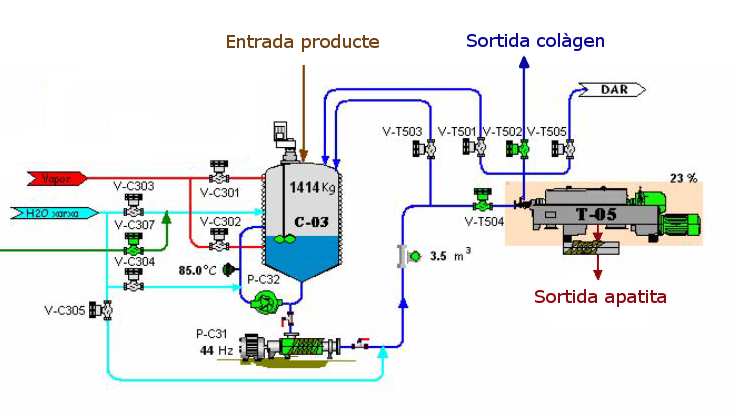
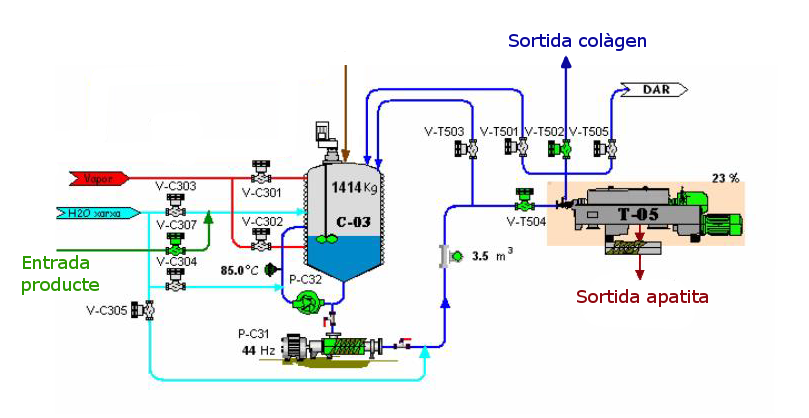
Fixed description

diff --git a/LaTex/document.tex b/LaTex/document.tex
@@ -9,6 +9,9 @@
 \usepackage{float}
 \usepackage{array}
 \usepackage[table, dvipsnames]{xcolor}
+\usepackage{amsmath}
+\usepackage{amsfonts}
+\usepackage{amssymb}
 
 \hypersetup{
 	colorlinks = true,
@@ -50,9 +53,9 @@ En aquest treball s'han usat les tècniques de disseny d'experiments per poder v
 \subsection{Tema escollit}
 L'activitat principal de \emph{Proteïn S.A.} és fabricar  \emph{\href{https://es.wikipedia.org/wiki/Col\%C3\%A1geno_hidrolizado}{co\l.lagen hidrolitzat}} a partir de l'ós de porc que és usat a la indústria de l'alimentació per afegir els nutrients necessaris a la carn. 
 
-A part, un subproducte que es genera és el \emph{\href{https://es.wikipedia.org/wiki/Fosfato_tric\%C3\%A1lcico}{Fosfat Tricàlcic}} ($Ca_3 (PO_4)_2$) o també conegut com \emph{apatita} i un dels usos més comuns és per les gallines que ponen ous perquè no es quedin sense calci.
+A part, un subproducte que es genera és el \emph{\href{https://es.wikipedia.org/wiki/Fosfato_tric\%C3\%A1lcico}{Fosfat Tricàlcic}} ($Ca_3 (PO_4)_2$) o també conegut com \emph{apatita} i un dels usos més comuns és per les gallines que ponen ous perquè no es quedin sense calci. 
 
-El problema principal de l'apatita és que els compradors la volen amb un \% en massa igual o superior al 15\%. Si aquesta condició no es pot garantir els clients reclamaran indemnitzacions o aniran a comprar a la competència. Així doncs, aquest serà l'objecte principal de l'estudi ja que l'empresa vol assegurar-se que la qualitat de la seva apatita és bona. 
+El problema principal de l'apatita és que els compradors la volen amb un \% de fòsfor en massa igual o superior al 15\%. Si aquesta condició no es pot garantir els clients reclamaran indemnitzacions o aniran a comprar a la competència. Així doncs, aquest serà l'objecte principal de l'estudi ja que l'empresa vol assegurar-se que la qualitat de la seva apatita és bona. 
 
 A part també hi ha co\l.lagen que s'escapa per la línia de l'apatita a l'hora de separar els dos productes pel que també pot ser d'interès minimitzar la quantitat que es perd perquè no s'ha pogut separar prou bé.
 
@@ -60,14 +63,14 @@ A part també hi ha co\l.lagen que s'escapa per la línia de l'apatita a l'hora 
 Donat que els clients poden reclamar si la qualitat d'apatita no és suficient i que hi ha part de co\l.lagen que es perd per la línia de l'apatita ens interessa complir els següents objectius:
 
 \begin{itemize}
-	\item Maximitzar el \% en massa d'apatita
+	\item Maximitzar el \% en massa de fosfor a l'apatita
 	\item Minimitzar el \% en massa de co\l.lagen a la línia de l'apatita
 \end{itemize}
 
 \section{Disseny}
 
 \subsection{Sistema a estudiar}
-Per poder saber quins factors s'han de controlar cal entendre primer com funciona la part del procés amb el que s'obté l'apatita, veure \autoref{fig:esquema}. Inicialment el producte arriba del procés anterior i conté co\l.lagen i apatita en suspensió en aigua (línia blava al P\&D). Així doncs, s'ha de separar l'apatita de l'aigua, el problema és que precipita molt fàcilment i s'ha de forçar que es mantingui en suspensió. Per tant, hi ha una sèrie d'elements que asseguren que això sigui així; al dipòsit on va a parar (C-03) hi ha un parell de barrejadors i una bomba de recirculació (P-C32). 
+Per poder saber quins factors s'han de controlar cal entendre primer com funciona la part del procés amb el que s'obté l'apatita, veure \autoref{fig:esquema}. Inicialment el producte arriba del procés anterior i conté co\l.lagen i apatita en suspensió en aigua (línia verda al P\&D). Així doncs, s'ha de separar l'apatita de l'aigua, el problema és que precipita molt fàcilment i s'ha de forçar que es mantingui en suspensió. Per tant, hi ha una sèrie d'elements que asseguren que això sigui així; al dipòsit on va a parar (C-03) hi ha un parell de barrejadors i una bomba de recirculació (P-C32). 
 
 \begin{figure}[H]
 	\centering
@@ -101,12 +104,20 @@ Per obtenir una mostra simplement s'agafa de la sortida del tricànter una mica 
 El procés de mesura és una mica més complicat i consta d'una sèrie d'etapes:
 
 \begin{enumerate}
-	\item Es pesa la mostra que conté, entre d'altres, aigua, co\l.lagen i fosfat.
+	\item Es pesa la mostra que conté, entre d'altres, aigua, greix, co\l.lagen i fosfat.
 	\item Es posa en un forn a 100ºC per tal d'evaporar tota l'aigua 
 	\item Es torna a pesar i es pot veure la quantitat d'aigua que s'ha eliminat
 	\item Es posa de nou en un forn però ara a 400ºC per tal d'eliminar mitjançant piròlisi tota la matèria orgànica.
 	\item Es torna a pesar i així es pot veure per composició estequiomètrica la quantitat d'apatita en \% en massa que hi havia a la mostra presa.
 \end{enumerate} 
+
+Un cop s'ha trobat la massa d'apatita es pot saber el \% en massa de fòsfor de la mostra per estequiometria. El valor teòric és $\% fosfor = 0,2 \cdot \% apatita$ però, donat que el cristall d'apatita porta aigua el real és $\% fosfor = 0,185 \cdot \% apatita$. A part, cal considerar que no tota l'aigua s'arriba a evaporar i que hi ha un petit \% de greix que porta apatita, que normalment es considera constant però que pot ser una font potencial d'errors, aquest valor mitjà sol ser de 0,1459. Per tant:
+
+$$
+\frac{\% \text{fòsfor (P)}}{0,185} = \% apatita = 
+\frac{W_{ap}}{W_{ap} + W_{H_2O + \text{greix}} + W_{\text{co\l.làgen}}} =
+\frac{1}{1 + 0,1459 + \% \text{co\l.làgen en apatita}}
+$$
 
 \subsection{Factors i nivells}
 
